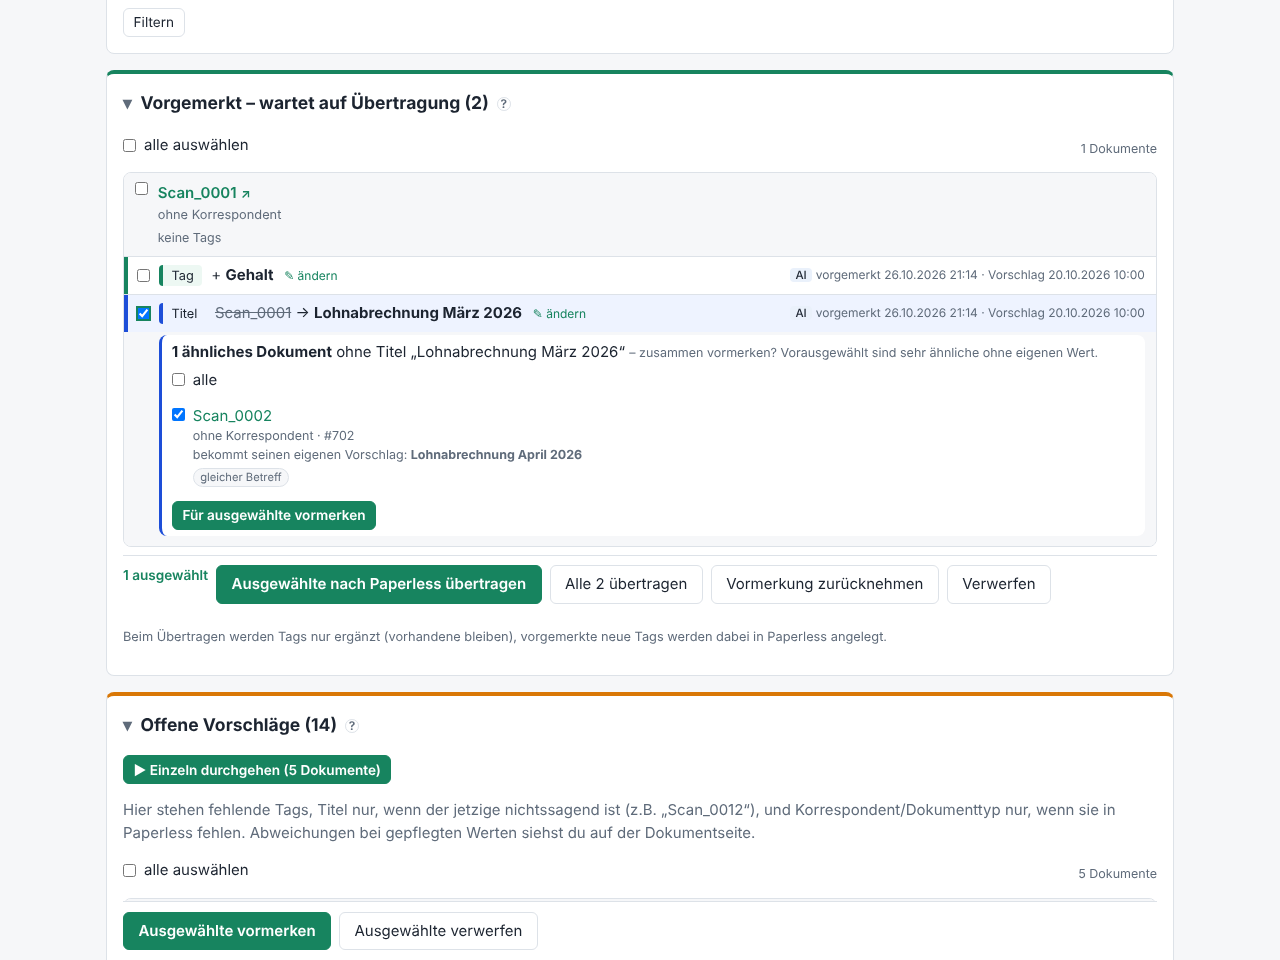
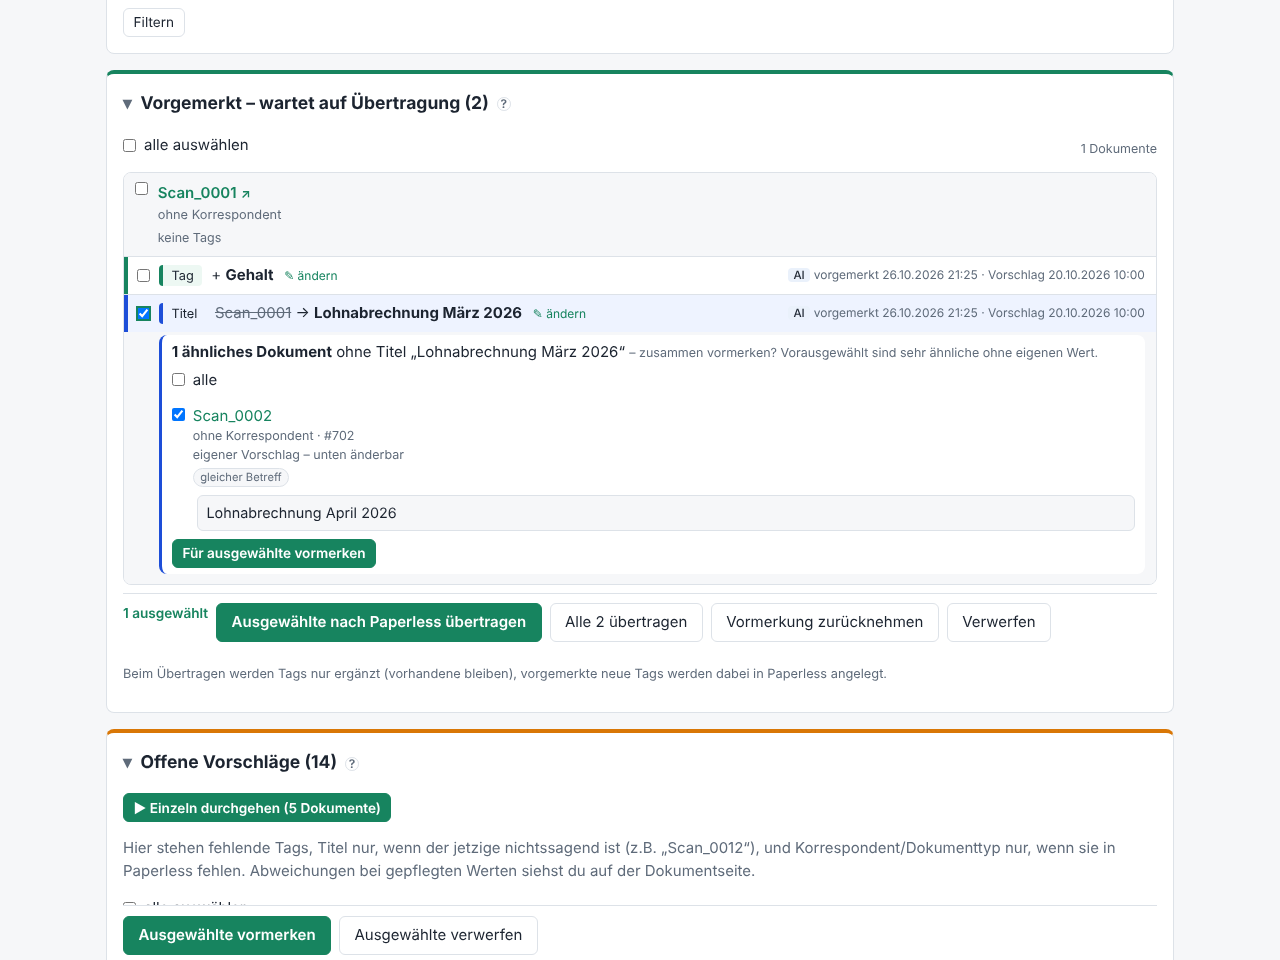
Ähnliche Dokumente: Titel je Dokument änderbar
Bei „Titel“ hat jedes ähnliche Dokument (und das Ausgangsdokument) ein Eingabefeld,
vorbelegt mit seinem eigenen Vorschlag bzw. dem Titel oben. Tippen hakt das Dokument an;
vorgemerkt wird der jeweilige Titel (geändert = „geändert“ in der Trefferquote).
Meldung nennt bei Titeln keinen fremden Titel mehr, Einzahl korrekt.

Claude-Session: https://claude.ai/code/session_01GZFJmjHzpJwZEudqzSRrzQ

Changed region(s): [[0.0938, 0.4688, 0.9062, 1.0], [0.625, 0.2812, 0.75, 0.3438]]

diff --git a/app/templates/_similar.html b/app/templates/_similar.html
@@ -1,5 +1,11 @@
 {# Ähnliche Dokumente zu einem Vorschlag – wird per JS unter die angehakte Zeile geladen #}
 {% set kind = 'tag' if it.key.startswith('tag:') else it.key %}
+{# Titel je Dokument änderbar; Tippen hakt das Dokument an #}
+{% macro title_input(doc_id, value) -%}
+  <input class="sim-title" name="sim_{{ gid }}_title_{{ doc_id }}" value="{{ value }}" aria-label="Titel für #{{ doc_id }}"
+    oninput="this.closest('li').querySelector('input[type=checkbox]').checked = true"
+    onkeydown="if (event.key === 'Enter') { event.preventDefault(); this.closest('.similar-inner').querySelector('button[name=sim_group]').click(); }">
+{%- endmacro %}
 {% if items %}
 <div class="similar-inner k-{{ kind }}">
   <p class="similar-head"><strong>{{ items|length }}{{ '+' if more }} {{ 'ähnliches Dokument' if items|length == 1 and not more else 'ähnliche Dokumente' }}</strong> ohne {{ it.label }} „{{ it.new }}“
@@ -11,18 +17,19 @@
   <ul class="similar-list">
     {% if it.state == 'open' %}
     <li><label class="sim-row"><input type="checkbox" name="sim_{{ gid }}" value="{{ src.id }}" checked>
-      <span><strong>dieses Dokument</strong> <small class="muted">#{{ src.id }}</small></span></label></li>
+      <span><strong>dieses Dokument</strong> <small class="muted">#{{ src.id }}</small></span></label>
+      {% if kind == 'title' %}{{ title_input(src.id, it.new) }}{% endif %}</li>
     {% endif %}
     {% for f in items %}
     <li><label class="sim-row"><input type="checkbox" name="sim_{{ gid }}" value="{{ f.doc.id }}" {{ 'checked' if f.preselect }}>
       <span class="sim-main">
         <a href="/documents/{{ f.doc.id }}" target="_blank" rel="noopener">{{ f.doc.title or ('#' ~ f.doc.id) }}</a>
         <small class="muted">{{ f.doc.correspondent or 'ohne Korrespondent' }}{% if f.doc.document_type %} · {{ f.doc.document_type }}{% endif %} · #{{ f.doc.id }}</small>
-        {% if f.own_title %}<small class="sim-current">bekommt seinen eigenen Vorschlag: <strong>{{ f.own_title }}</strong></small>
-        {% elif kind == 'title' %}<small class="sim-current">bekommt: <strong>{{ it.new }}</strong></small>
+        {% if kind == 'title' %}<small class="sim-current">{{ 'eigener Vorschlag' if f.own_title else 'Titel wie oben' }} – unten änderbar</small>
         {% elif f.current %}<small class="sim-current">jetzt: {{ f.current }}</small>{% endif %}
         <span class="sim-reasons">{% for r in f.reasons %}<span class="pill">{{ r }}</span>{% endfor %}</span>
-      </span></label></li>
+      </span></label>
+      {% if kind == 'title' %}{{ title_input(f.doc.id, f.own_title or it.new) }}{% endif %}</li>
     {% endfor %}
   </ul>
   {% if more %}<p class="muted"><small>… und {{ more }} weitere mit geringerer Ähnlichkeit.</small></p>{% endif %}

diff --git a/app/static/style.css b/app/static/style.css
@@ -686,3 +686,4 @@ body.docview-open { overflow: hidden; }
 .sugg-edit input:not([type=hidden]), .sugg-edit select { flex: 1 1 14rem; min-width: 0; width: auto; }
 .sugg-edit small { flex-basis: 100%; }
 @media (max-width: 640px) { .sugg-edit { padding-left: .5rem; padding-right: .5rem; } }
+.similar-list .sim-title { display: block; width: 100%; margin: .1rem 0 .4rem 1.6rem; max-width: calc(100% - 1.6rem); font-size: .9rem; }

diff --git a/tests/test_metadata.py b/tests/test_metadata.py
@@ -495,3 +495,25 @@ def test_correct_suggestions(client):
     # neuer Tag wird beim Übertragen angelegt
     with session_scope() as s:
         assert metadata.correct(s, s.get(Document, 901), "tag:Haus", "Neu erfunden") == "Tag „Neu erfunden“ statt „Haus“ vorgemerkt (neuer Tag)"
+
+
+def test_similar_titles_editable_per_document(client):
+    with session_scope() as s:
+        for i, sugg in ((821, "Lohnabrechnung März 2026"), (822, "Lohnabrechnung April 2026"), (823, None)):
+            d = Document(id=i, title=f"Scan_{i}" if i != 823 else "Scan_0823", tags=[])
+            d.meta_suggestion = {"tags": [], "at": "2026-10-01T00:00:00+00:00",
+                                 **({"title": {"value": sugg, "source": "llm"}} if sugg else {})}
+            metadata.refresh_pending(d)
+            s.add(d)
+    frag = client.get("/paperless-changes/similar?doc=821&key=title&gid=t1").text
+    assert 'name="sim_t1_title_822" value="Lohnabrechnung April 2026"' in frag and 'name="sim_t1_title_821"' in frag
+    client.post("/paperless-changes/similar", data={
+        "sim_group": "t1", "sim_t1_src": "821", "sim_t1_key": "title", "sim_t1": ["821", "822", "823"],
+        "sim_t1_title_821": "Lohnabrechnung März 2026", "sim_t1_title_822": "Gehaltsabrechnung April 2026 (korrigiert)",
+        "sim_t1_title_823": "Lohnabrechnung Mai 2026"})
+    with session_scope() as s:
+        titles = {i: s.get(Document, i).meta_accepted["title"] for i in (821, 822, 823)}
+        assert titles[821]["value"] == "Lohnabrechnung März 2026"
+        assert titles[822]["value"] == "Gehaltsabrechnung April 2026 (korrigiert)"
+        assert titles[823]["value"] == "Lohnabrechnung Mai 2026" and titles[823]["source"] == "manual"
+        assert s.query(MetaDecision).filter_by(document_id=822, key="title").one().decision == "edited"

diff --git a/app/main.py b/app/main.py
@@ -1522,7 +1522,15 @@ def create_app(settings: Settings | None = None, start_worker: bool = True) -> F
             doc = session.get(Document, doc_id)
             if doc is None:
                 continue
-            if doc_id == source.id:
+            title = " ".join(str(form.get(f"sim_{gid}_title_{doc_id}") or "").split()) if key == "title" else ""
+            if title:
+                # Titel je Dokument (ggf. von dir geändert)
+                if any(i["key"] == "title" for i in metadata.pending(doc, everything=True)):
+                    count += metadata.accept(session, doc, ["title"], title)
+                else:
+                    count += metadata.apply_value(session, doc, "title", title,
+                                                  source="similar" if title == item["new"] else "manual")
+            elif doc_id == source.id:
                 count += metadata.accept(session, doc, [key]) if item["state"] == "open" else 0
             else:
                 count += metadata.apply_value(session, doc, key, item["new"], item["new_tag"])
@@ -1566,7 +1574,8 @@ def create_app(settings: Settings | None = None, start_worker: bool = True) -> F
             msg = "Nichts ausgewählt"
         else:
             item, count = result
-            msg = f"{item['label']} „{item['new']}“ für {count} Dokumente vorgemerkt – noch nichts in Paperless geändert"
+            what = "Titel" if item["key"] == "title" else f"{item['label']} „{item['new']}“"  # Titel: je Dokument eigener
+            msg = f"{what} für {count} {'Dokument' if count == 1 else 'Dokumente'} vorgemerkt – noch nichts in Paperless geändert"
         query = meta_query(flt)
         return RedirectResponse(f"/paperless-changes?{query}{'&' if query else ''}msg={quote(msg)}#metadata", status_code=303)
 
